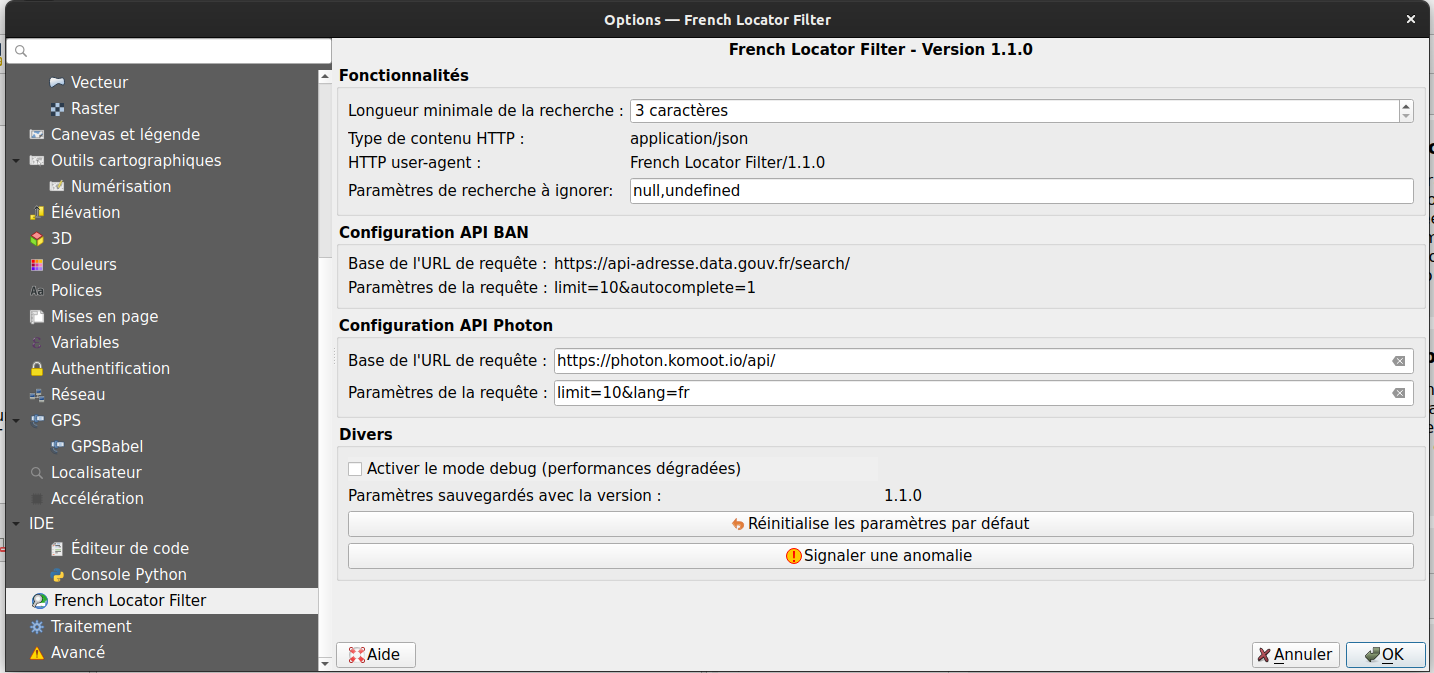
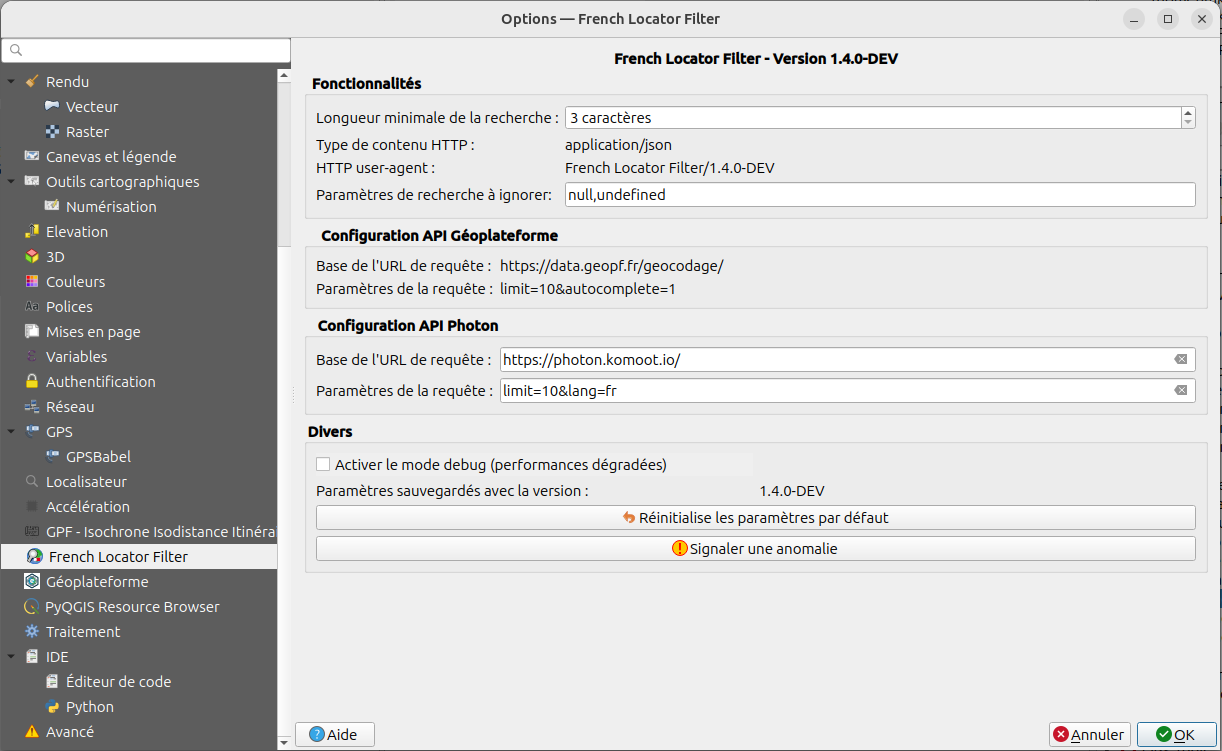
feat(doc): update documentation for reverse geocoding widget and settings

Changed region(s): [[0.0, 0.0, 1.0, 1.0]]

diff --git a/docs/usage/fr_how_to_use.md b/docs/usage/fr_how_to_use.md
@@ -1,29 +1,45 @@
 # Guide d'utilisation
 
-Extension de recherche de lieux (géocodage) utilisant l'API de la Base Adresse Nationale de la France <https://geo.api.gouv.fr/adresse/>.
+Extension de recherche de lieux (géocodage) utilisant l'API de géocodage de la Géoplateforme <https://geoservices.ign.fr/documentation/services/services-geoplateforme/geocodage>.
 
-Cette extension permet d'activer la recherche de lieu par adresse dans [la barre de recherche universelle de QGIS (Localisateur)](https://docs.qgis.org/3.16/fr/docs/user_manual/introduction/qgis_configuration.html#locator-settings).
+Cette extension permet d'activer la recherche de lieu par adresse dans [la barre de recherche universelle de QGIS (Localisateur)](https://docs.qgis.org/3.40/fr/docs/user_manual/introduction/qgis_configuration.html#locator-settings).
 
-## Utilisation
+Un outil est disponible pour effectuer un géocodage inversé (adresse depuis coordonnées).
+
+Des processings sont aussi disponibles pour des traitements en lots à partir d'une couche vectorielle.
+
+## Utilisation géocodage
 
 1. taper librement une recherche d'adresse dans la barre de recherche (en bas à gauche de la fenêtre QGIS)
 2. Sélectionner un résultat. Double clic ou entrée déplace la carte sur l'adresse retenue
 
 ![Recherche d'adresse dans QGIS](/_static/images/french_locator_sample_basque_qgis_details.png "Exemple de recherche sur le mot 'basque' dans le localisateur de QGIS")
 
-## Notes
+### Notes
 
-### Préfixe
+#### Préfixe
 
 Taper le préfixe `fra` permet de ne rechercher que des adresses fournies par ce service (et évite de rechercher les autres objets indexés par la barre Localisateur).
 
-### Zooms prédéfinis
+#### Zooms prédéfinis
 
 L'API ne renvoie pas d'emprise permettant de zoomer exactement. Les zooms prédéfinis sont pré-définis en fonction du type de résultat :
 
 - 1/25 000 (ville)
 - 1/5000 (rue)
 - 1/2000 (adresse précise)
+
+----
+
+## Utilisation géocodage inversé
+
+Un outil de recherche d'adresse depuis un point est disponible dans la barre d'outil après installation du plugin.
+
+![Toolbar of French Locator Filter](/_static/images/french_locator_toolbar.png "'Toolbar of French Locator Filter")
+
+Un dockwidget est affiché permettant de sélectionner un point sur la carte et demander une recherche d'adresse:
+
+![Géocodage inversé](/_static/images/french_locator_reverse_geocode_widget.png "Géocodage inversé")
 
 ----
 
@@ -41,9 +57,9 @@ Ces paramètres peuvent être définis via des variables d'environnement. Ceci p
 
 Le tableau suivant reprend les paramètres disponibles avec la variable d'environnement associée et la valeur par défaut:
 
-|Paramètre                               | Variable d'environnement                       | Valeur par défaut                          |
-|----------------------------------------|------------------------------------------------|--------------------------------------------|
-|URL requête API BAN                     | `QGIS_FRENCH_LOCATOR_REQUEST_URL`              | `https://api-adresse.data.gouv.fr/search/` |
-|Paramètre par défaut requête API BAN    | `QGIS_FRENCH_LOCATOR_REQUEST_URL_QUERY`        | `limit=10&autocomplete=1`                  |
-|URL requête API Photon                  | `QGIS_FRENCH_LOCATOR_REQUEST_PHOTON_URL`       | `https://photon.komoot.io/api/`            |
-|Paramètre par défaut requête API Photon | `QGIS_FRENCH_LOCATOR_REQUEST_PHOTON_URL_QUERY` | `limit=10&lang=fr`                         |
+|Paramètre                                      | Variable d'environnement                       | Valeur par défaut                          |
+|-----------------------------------------------|------------------------------------------------|--------------------------------------------|
+|URL requête API Géoplateforme                  | `QGIS_FRENCH_LOCATOR_REQUEST_URL`              | `https://data.geopf.fr/geocodage/` |
+|Paramètre par défaut requête API Géoplateforme | `QGIS_FRENCH_LOCATOR_REQUEST_URL_QUERY`        | `limit=10&autocomplete=1`                  |
+|URL requête API Photon                         | `QGIS_FRENCH_LOCATOR_REQUEST_PHOTON_URL`       | `https://photon.komoot.io/api/`            |
+|Paramètre par défaut requête API Photon        | `QGIS_FRENCH_LOCATOR_REQUEST_PHOTON_URL_QUERY` | `limit=10&lang=fr`                         |

diff --git a/docs/usage/en_how_to_use.md b/docs/usage/en_how_to_use.md
@@ -1,5 +1,65 @@
-# Manual
+# User Guide
 
-This is a so called QgsLocator filter for the French Adress API search service, implemented as a QGIS plugin.
+Place search extension (geocoding) using the Géoplateforme geocoding API <https://geoservices.ign.fr/documentation/services/services-geoplateforme/geocodage>.
 
-This plugin is forked from the [Nominatim Locator Filter](https://plugins.qgis.org/plugins/nominatim_locator_filter/) plugin, by Richard Duivenvoorde (Zuidt). Read more about the  it: <https://qgis.nl/2018/05/16/english-coding-a-qgslocator-plugin/?lang=en>.
+This extension enables place search by address in [the QGIS universal search bar (Locator)](https://docs.qgis.org/3.40/en/docs/user_manual/introduction/qgis_configuration.html#locator-settings).
+
+A tool is available to perform reverse geocoding (get an address from coordinates).
+
+Processing algorithms are also available to run batch operations from a vector layer.
+
+## Geocoding usage
+
+1. Freely type an address search in the search bar (bottom left of the QGIS window)  
+2. Select a result. Double-click or press Enter to move the map to the chosen address  
+
+![Address search in QGIS](/_static/images/french_locator_sample_basque_qgis_details.png "Example of a search with the word 'basque' in the QGIS locator")
+
+### Notes
+
+#### Prefix
+
+Typing the prefix `fra` restricts the search to addresses provided by this service (and avoids searching other objects indexed by the Locator bar).
+
+#### Predefined zoom levels
+
+The API does not return a bounding box that allows an exact zoom. Predefined zoom levels are set depending on the type of result:
+
+- 1/25,000 (city)  
+- 1/5,000 (street)  
+- 1/2,000 (precise address)  
+
+----
+
+## Reverse geocoding usage
+
+An address search tool from a point is available in the toolbar after installing the plugin.
+
+![Toolbar of French Locator Filter](/_static/images/french_locator_toolbar.png "'Toolbar of French Locator Filter")
+
+A dock widget is displayed allowing you to select a point on the map and request an address search:
+
+![Reverse geocoding](/_static/images/french_locator_reverse_geocode_widget.png "Reverse geocoding")
+
+----
+
+## Settings
+
+The settings used by the plugin are integrated into the QGIS Preferences menu:
+
+![Settings of French Locator Filter](/_static/images/french_locator_settings.png "'Settings of French Locator Filter")
+
+Some information cannot be modified by the end user.
+
+### Environment variables
+
+These parameters can be defined via environment variables. This allows plugin configuration to be managed directly by the IT Department.
+
+The following table lists the available parameters with their associated environment variable and default value:
+
+|Parameter                                      | Environment variable                           | Default value                               |
+|-----------------------------------------------|------------------------------------------------|---------------------------------------------|
+|Géoplateforme API request URL                  | `QGIS_FRENCH_LOCATOR_REQUEST_URL`              | `https://data.geopf.fr/geocodage/`          |
+|Default parameters for Géoplateforme API query | `QGIS_FRENCH_LOCATOR_REQUEST_URL_QUERY`        | `limit=10&autocomplete=1`                   |
+|Photon API request URL                         | `QGIS_FRENCH_LOCATOR_REQUEST_PHOTON_URL`       | `https://photon.komoot.io/api/`             |
+|Default parameters for Photon API query        | `QGIS_FRENCH_LOCATOR_REQUEST_PHOTON_URL_QUERY` | `limit=10&lang=fr`                          |
